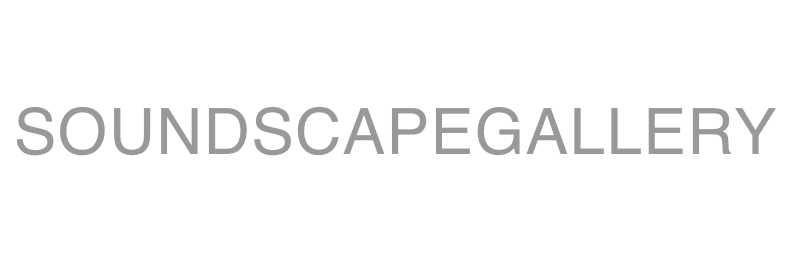
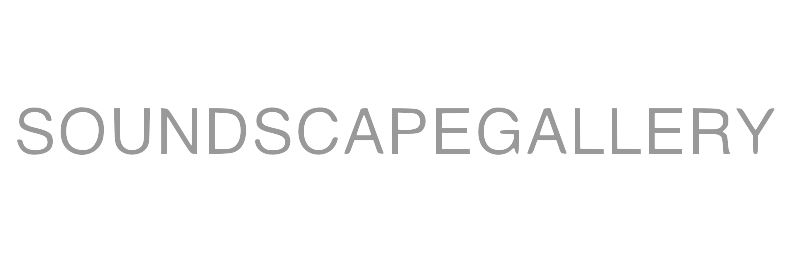
Update inspiration and site layout

diff --git a/inspiration2017.html b/inspiration2017.html
@@ -3,7 +3,7 @@
 <head>
     <meta charset="utf-8">
 <meta name="viewport" content="width=device-width, initial-scale=1.0">
-<meta name="description" content="Hi I'm Matthew Siu. Software Developer, Entreprenuer, Creative, Designer. Let's get in touch.">
+<meta name="description" content="Articles, books and things that inspire me and make me think.">
 <meta name="author" content="Matthew Siu">
     <title>Matthew Siu</title>
 
@@ -57,7 +57,7 @@
                     <a class="pure-button" href="about.html">About</a>
                 </li>
                 <li class="nav-item">
-                    <a class="pure-button" href="#">Contact</a>
+                    <a class="pure-button" href="contact.html">Contact</a>
                 </li>
 
             </ul>
@@ -81,8 +81,62 @@
             <!-- A wrapper for all the blog posts -->
 
             <div class="posts">
-                <h1 class="content-subhead">Projects</h1>
+                <h1 class="content-subhead">Inspiration</h1>
+                <div class="post-description">
+                    <p>
+                        I do a lot of reading. Here are some of the articles, books and other things that have inspired me recently.
+                    </p>
+                </div>
+                 <section>
+                      <div class="post-description">
+                                <a class="pure-button" href="inspiration2017.html">2017</a>
+                                <a class="pure-button" href="inspiration2016.html">2016</a>
+                      </div>
+                 </section>
+                <section class="post">
+                  <div class="post-header">
+                    <div class="post-title">
+                      Books
+                    </div>
+                  </div>
+                  <div class="post-description">
+                    The Design of Future Things - Donald A. Norman</br>
+                    BOLD - Peter Diamandis and Steven Kotler</br>
+                    <a href = "https://www.principles.com/#Principles">Principles</a> - Ray Dalio</br>
 
+                  </div>
+                </section>
+                <section class="post">
+                  <div class="post-header">
+                    <div class="post-title">
+                      Articles
+                    </div>
+                  </div>
+                  
+                  <div class="post-description">
+                    <a target="_blank" href="https://joi.ito.com/weblog/2014/10/02/antidisciplinar.html">Antidisciplinary</a>
+                    <p>Dividing the world's knowledge into fragmented disciplines limits the perspectives. Problems today will require fresh perspectives that draw from many disciplines.</p>
+                    <a target="_blank" href="https://blog.framer.com/a-story-of-a-designer-conquering-mathematics-d0fd4585f0ba#.22u6xyy4f">The Story of a Designer Conquering Mathematics</a></br>
+                    <a target="_blank" href="http://cs.brown.edu/courses/cs137/readings/Gibson-AFF.pdf">The Theory of Affordances - James Gibson</a></br>
+                  </div>
+                </section>
+                <section class="post">
+                  <div class="post-header">
+                    <div class="post-title">
+                      Other
+                    </div>
+                  </div>
+                  <div class="post-description">
+                    <a target="_blank" href="http://www.galactanet.com/oneoff/theegg_mod.html"> The Egg by Andy Weir (Short Story)</a>
+                    <p>A short story about humanity, gods and you.</p>
+                    <a target="_blank" href="https://www.youtube.com/watch?v=7cegKFOW5fM">Drone 100</a>
+                    <p>A coordinated lights display using drones behind an orchestral performance</p>
+                    <a target="_blank" href="http://johnorionyoung.com/work">James Orion Young</a>
+                    <p>VR Art aimed to inspire and make people think about the possibilities.</p>
+                    <a target="_blank" href="http://johnorionyoung.com/work">A Field of 20,000 Glowing Lights</a>
+                    <p>A piece by Bruce Munro that covers a landscape with thousands of lights to create a living field.</p>
+                  </div>
+                </section>
 
 
             </div>

diff --git a/inspiration2016.html b/inspiration2016.html
@@ -51,7 +51,7 @@
                     <a class="pure-button" href="index.html">Work</a>
                 </li>
                 <li class="nav-item">
-                    <a class="pure-button" href="inspiration.html">Inspiration</a>
+                    <a class="pure-button" href="inspiration2017.html">Inspiration</a>
                 </li>
                 <li class="nav-item">
                     <a class="pure-button" href="about.html">About</a>
@@ -84,15 +84,21 @@
                 <h1 class="content-subhead">Inspiration</h1>
                 <div class="post-description">
                     <p>
-                        I do a lot of reading. Here are some of the articles, books and other things that have inspired me recently.
+                        I do a lot of reading. Here are some of the articles, books and other things that have inspired me.
                     </p>
                 </div>
-                <section class="post">
+                 <section>
+                      <div class="post-description">
+                                <a class="pure-button" href="inspiration2017.html">2017</a>
+                                <a class="pure-button" href="inspiration2016.html">2016</a>
+                      </div>
+                 </section>
                   <div class="post-header">
                     <div class="post-title">
                       Books
                     </div>
                   </div>
+
                   <div class="post-description">
                     Economics in One Lesson - Henry Hazlitt </br>
                     Letters from a Self-Made Merchant to His Son - George Horace Lorimer</br>
@@ -129,19 +135,6 @@
                       The AI Revolution: The Road to Superintelligence</a>
                     <p>A super comprehensive piece covering the history of AI, philosophical debates related to how we will interact with it and if it doesn't kill us, how this will be the greatest and perhaps final invention for humanity.</p>
                   </div>
-                  <!--
-                  <section class="post">
-                    <div class="post-header">
-                      <div class="post-title">
-                        Graphics
-                      </div>
-                    </div>
-                    <div class="post-description">
-                      <img class="about-graphics" src="images/thingsyoucaninfluence.jpeg"></img>
-                      <img class="about-graphics" style="width:66%;" src="images/ailandscape.jpg"></img>
-                    </div>
-                  </section>
-                -->
                 </section>
                 <section class="post">
                   <div class="post-header">

diff --git a/index.html b/index.html
@@ -51,7 +51,7 @@
                     <a class="pure-button" href="index.html">Work</a>
                 </li>
                 <li class="nav-item">
-                    <a class="pure-button" href="inspiration.html">Inspiration</a>
+                    <a class="pure-button" href="inspiration2017.html">Inspiration</a>
                 </li>
                 <li class="nav-item">
                     <a class="pure-button" href="about.html">About</a>
@@ -97,7 +97,7 @@
                               </div>
                              <div class="pure-u-1 pure-u-md-1-2">
                                   <a href="projects/soundscape.html" title="Soundscape Photography">
-                                    <img src="images/soundscapegallery.png" width="90%" height="auto" alt="Soundscape">
+                                    <img src="images/soundscapecopy.jpg" width="90%" height="auto" alt="Soundscape">
                                   </a>
 
                                   <div class="post-image-meta">
@@ -165,6 +165,7 @@
                                       <h3>Elon Musk</h3>
                                   </div>
                               </div>
+                              <!--
                               <div class="pure-u-1 pure-u-md-1-2">
                                   <a href="projects/cellular_automata.html" title="Cellular Automata">
                                     <img src="images/cellular_automata.jpg" width="90%" height="auto" alt="Cellular Automata">
@@ -173,7 +174,7 @@
                                   <div class="post-image-meta">
                                       <h3>Cellular Automata</h3>
                                   </div>
-                              </div>
+                              </div>-->
                               <!--
                               <div class="pure-u-1 pure-u-md-1-2">
                                   <a href="projects/newsfeedr.html" title="News Feedr">

diff --git a/projects/soundscape.html b/projects/soundscape.html
@@ -51,7 +51,7 @@
                     <a class="pure-button" href="../index.html">Work</a>
                 </li>
                 <li class="nav-item">
-                    <a class="pure-button" href="../inspiration.html">Inspiration</a>
+                    <a class="pure-button" href="../inspiration2017.html">Inspiration</a>
                 </li>
                 <li class="nav-item">
                     <a class="pure-button" href="../about.html">About</a>
@@ -89,7 +89,7 @@
 	                </div>
 	                <section class="post">
 	                  <div class="post-header">
-                        <p> Here is an example from the gallery.</p>
+                        <p> Here is an example from the gallery. Turn on sound.</p>
 	                    <img src="../images/soundscape.jpg">
                         <audio
                         src="../audio/Water.m4a"

diff --git a/projects/cellular_automata.html b/projects/cellular_automata.html
@@ -26,7 +26,11 @@
     <!--[if gt IE 8]><!-->
         <link rel="stylesheet" href="../css/layouts/blog.css">
     <!--<![endif]-->
-
+<script src="//code.jquery.com/jquery-1.10.2.js"></script>
+<script>
+    $("#header").load("header.html");
+    $("#footer").load("footer.html");
+</script>
 
 </head>
 <body>
@@ -51,7 +55,7 @@
                     <a class="pure-button" href="../index.html">Work</a>
                 </li>
                 <li class="nav-item">
-                    <a class="pure-button" href="../inspiration.html">Inspiration</a>
+                    <a class="pure-button" href="../inspiration2017.html">Inspiration</a>
                 </li>
                 <li class="nav-item">
                     <a class="pure-button" href="../about.html">About</a>

diff --git a/about.html b/about.html
@@ -51,7 +51,7 @@
                       <a class="pure-button" href="index.html">Work</a>
                   </li>
                   <li class="nav-item">
-                      <a class="pure-button" href="inspiration.html">Inspiration</a>
+                      <a class="pure-button" href="inspiration2017.html">Inspiration</a>
                   </li>
                   <li class="nav-item">
                       <a class="pure-button" href="about.html">About</a>

diff --git a/contact.html b/contact.html
@@ -54,7 +54,7 @@
                       <a class="pure-button" href="index.html">Work</a>
                   </li>
                   <li class="nav-item">
-                      <a class="pure-button" href="inspiration.html">Inspiration</a>
+                      <a class="pure-button" href="inspiration2017.html">Inspiration</a>
                   </li>
                   <li class="nav-item">
                       <a class="pure-button" href="about.html">About</a>

diff --git a/projects/collabdrawing.html b/projects/collabdrawing.html
@@ -50,7 +50,7 @@
                     <a class="pure-button" href="../index.html">Work</a>
                 </li>
                 <li class="nav-item">
-                    <a class="pure-button" href="../inspiration.html">Inspiration</a>
+                    <a class="pure-button" href="../inspiration2017.html">Inspiration</a>
                 </li>
                 <li class="nav-item">
                     <a class="pure-button" href="../about.html">About</a>

diff --git a/projects/elonmusk.html b/projects/elonmusk.html
@@ -51,7 +51,7 @@
                     <a class="pure-button" href="../index.html">Work</a>
                 </li>
                 <li class="nav-item">
-                    <a class="pure-button" href="../inspiration.html">Inspiration</a>
+                    <a class="pure-button" href="../inspiration2017.html">Inspiration</a>
                 </li>
                 <li class="nav-item">
                     <a class="pure-button" href="../about.html">About</a>

diff --git a/projects/newsfeedr.html b/projects/newsfeedr.html
@@ -51,7 +51,7 @@
                     <a class="pure-button" href="../index.html">Work</a>
                 </li>
                 <li class="nav-item">
-                    <a class="pure-button" href="../inspiration.html">Inspiration</a>
+                    <a class="pure-button" href="../inspiration2017.html">Inspiration</a>
                 </li>
                 <li class="nav-item">
                     <a class="pure-button" href="../about.html">About</a>

diff --git a/projects/sift.html b/projects/sift.html
@@ -51,7 +51,7 @@
                     <a class="pure-button" href="../index.html">Work</a>
                 </li>
                 <li class="nav-item">
-                    <a class="pure-button" href="../inspiration.html">Inspiration</a>
+                    <a class="pure-button" href="../inspiration2017.html">Inspiration</a>
                 </li>
                 <li class="nav-item">
                     <a class="pure-button" href="../about.html">About</a>

diff --git a/css/social.css b/css/social.css
@@ -141,3 +141,15 @@ ul.social-icons {
 .fa-instagram:hover {
     background-color: #d5c185;
 }
+.fa-medium {
+    padding:10px 10px;
+    -o-transition:.5s;
+    -ms-transition:.5s;
+    -moz-transition:.5s;
+    -webkit-transition:.5s;
+    transition: .5s;
+    background-color: #3D4F5D;
+}
+.fa-medium:hover {
+    background-color: #1c9963;
+}
